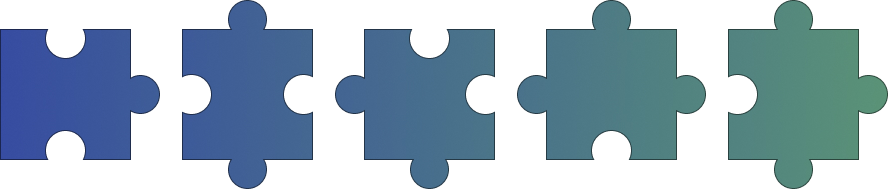
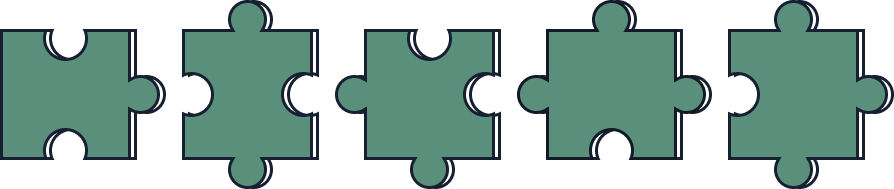
style(home page): added temporary assets from shutterstock

diff --git a/src/ui/product/Product.jsx b/src/ui/product/Product.jsx
@@ -1,8 +1,16 @@
 import { Link } from "react-router-dom";
 import conceptImg from "../../assets/concept.png";
-import designImplementation from "../../assets/design-and-implementation.png";
-import networkIncentives from "../../assets/network-incentives.png";
-import roadmap from "../../assets/roadmap.png";
+
+import { FontAwesomeIcon } from "@fortawesome/react-fontawesome";
+import {
+  faPuzzle,
+  faMap,
+  faCoins,
+  faHandshakeSimple,
+} from "@fortawesome/pro-solid-svg-icons";
+// import designImplementation from "../../assets/design-and-implementation.png";
+// import networkIncentives from "../../assets/network-incentives.png";
+// import roadmap from "../../assets/roadmap.png";
 
 export default function Example() {
   return (
@@ -47,15 +55,25 @@ export default function Example() {
           {/* Design & Implementation */}
           <div className="relative max-lg:row-start-1">
             <div className="absolute bg-white rounded-lg inset-1 max-lg:rounded-t-3xl dark:bg-stone-500/20"></div>
-            <div className="relative flex h-full flex-col overflow-hidden rounded-lg max-lg:rounded-t-[2rem] shadow ring-1 ring-black/5 dark:ring-stone-600">
-              <div className="px-8 pt-8 sm:px-10 sm:pt-10">
-                <p className="mt-2 text-lg font-medium tracking-tight text-gray-950 max-lg:text-center dark:text-stone-50">
-                  Design & Implementation
-                </p>
-                <p className="mt-2 mb-2 text-sm text-gray-600 max-lg:text-center dark:text-stone-50">
-                  Three key characters are integral to the network: the User,
-                  the Storer, and the PXL Server. Users are simply individuals
-                  who engage with the SNS mobile application...
+            <div className="relative flex h-full flex-col overflow-hidden rounded-lg max-lg:rounded-t-[2rem] shadow ring-1 ring-black/5 dark:ring-stone-600 ">
+              <div className="px-8 py-8 text-center lg:text-start sm:px-10 sm:pt-10">
+                <div className="flex flex-col items-center justify-center gap-4 lg:justify-start lg:flex-row">
+                  <FontAwesomeIcon
+                    icon={faPuzzle}
+                    className="p-2 rounded bg-primary/80 text-slate-100 size-5"
+                  />
+                  <p className="text-lg font-medium tracking-tight text-gray-950 max-lg:text-center dark:text-stone-50">
+                    Design & Implementation
+                  </p>
+                </div>
+                <p className="mt-5 mb-2 text-sm text-gray-600 max-lg:text-center dark:text-stone-50">
+                  The network is built around three primary components: the
+                  User, the Storer, and the PXL Server. The User is any
+                  individual who interacts with the SNS mobile application,
+                  engaging with content, sharing media, and participating in the
+                  platform’s social features. The Storer serves as a
+                  decentralized node tasked with securely storing encrypted
+                  data, such as user-generated content and metadata...
                 </p>
                 <div className="max-lg:text-center">
                   <Link
@@ -66,13 +84,13 @@ export default function Example() {
                   </Link>
                 </div>
               </div>
-              <div className="flex items-center justify-center flex-1 px-8 max-lg:pb-12 max-lg:pt-10 sm:px-10 lg:pb-2">
+              {/* <div className="flex items-center justify-center flex-1 px-8 max-lg:pb-12 max-lg:pt-10 sm:px-10 lg:pb-2">
                 <img
                   className="w-full max-lg:max-w-xs"
                   src={designImplementation}
                   alt="Design and Implementation Image"
                 />
-              </div>
+              </div> */}
             </div>
           </div>
 
@@ -80,14 +98,23 @@ export default function Example() {
           <div className="relative max-lg:row-start-3 lg:col-start-2 lg:row-start-2">
             <div className="absolute bg-white rounded-lg inset-1 dark:bg-stone-500/20"></div>
             <div className="relative flex flex-col h-full overflow-hidden rounded-lg shadow ring-1 ring-black/5 dark:ring-stone-600">
-              <div className="px-8 pt-8 sm:px-10 sm:pt-10">
-                <p className="mt-2 text-lg font-medium tracking-tight text-gray-950 max-lg:text-center dark:text-stone-50">
-                  Network Incentives
-                </p>
-                <p className="mt-2 mb-2 text-sm text-gray-600 max-lg:text-center dark:text-stone-50">
-                  What distinguishes Pixelmine from other decentralized systems
-                  is our unique approach to incentivizing the network by
-                  awarding points to both users and storers...
+              <div className="px-8 py-8 text-center sm:px-10 sm:pt-10 lg:text-start">
+                <div className="flex flex-col items-center justify-center gap-4 lg:justify-start lg:flex-row">
+                  <FontAwesomeIcon
+                    icon={faCoins}
+                    className="p-2 rounded bg-primary/80 text-slate-100 size-5"
+                  />
+                  <p className="text-lg font-medium tracking-tight text-gray-950 max-lg:text-center dark:text-stone-50">
+                    Network Incentives
+                  </p>
+                </div>
+                <p className="mt-5 mb-2 text-sm text-gray-600 max-lg:text-center dark:text-stone-50">
+                  Activity Points represent the overall activity of a user,
+                  which includes actions such as posting content, commenting on
+                  posts, messaging, and reacting to content. PXL Points, on the
+                  other hand, reflect the quality of a user’s activity. While
+                  Activity Points increase with every interaction within the
+                  app, PXL Points assess the quality of those interactions.
                 </p>
                 <div className="max-lg:text-center">
                   <Link
@@ -98,13 +125,13 @@ export default function Example() {
                   </Link>
                 </div>
               </div>
-              <div className="flex items-center justify-center flex-1 max-lg:py-6 lg:pb-2 ">
+              {/* <div className="flex items-center justify-center flex-1 max-lg:py-6 lg:pb-2 ">
                 <img
                   className="object-cover w-full "
                   src={networkIncentives}
                   alt="Network Incentives"
                 />
-              </div>
+              </div> */}
             </div>
           </div>
 
@@ -112,16 +139,24 @@ export default function Example() {
           <div className="relative max-lg:row-start-4 lg:col-start-3 lg:row-start-2">
             <div className="absolute bg-white rounded-lg inset-1 dark:bg-stone-500/20 dark:text-stone-50"></div>
             <div className="relative flex flex-col h-full overflow-hidden rounded-lg shadow ring-1 ring-black/5 dark:ring-stone-600">
-              <div className="px-8 py-8 sm:px-10 sm:pt-10">
-                <p className="mt-2 text-lg font-medium tracking-tight text-gray-950 max-lg:text-center dark:text-stone-50">
-                  Democratic System
-                </p>
-                <p className="mt-2 mb-2 text-sm text-gray-600 max-lg:text-center dark:text-stone-50">
-                  Pixelmines's decentralization plays a crucial role in
-                  strengthening democracy by reducing the concentration of power
-                  over information. In traditional centralized systems, a few
-                  entities control vast amounts of data, leading to risks of
-                  manipulation, surveillance, and censorship...
+              <div className="px-8 py-8 text-center sm:px-10 sm:pt-10 lg:text-start">
+                <div className="flex flex-col items-center justify-center gap-4 lg:justify-start lg:flex-row">
+                  <FontAwesomeIcon
+                    icon={faHandshakeSimple}
+                    className="p-2 rounded bg-primary/80 text-slate-100 size-5"
+                  />
+                  <p className="text-lg font-medium tracking-tight text-gray-950 max-lg:text-center dark:text-stone-50">
+                    Democratic System
+                  </p>
+                </div>
+                <p className="mt-5 mb-2 text-sm text-gray-600 max-lg:text-center dark:text-stone-50">
+                  Pixelmine focuses on user participation, transparency, and the
+                  fair distribution of information. By empowering users to
+                  express their opinions, Pixelmine facilitates meaningful
+                  discussions around social, political, and cultural issues. A
+                  key feature of Pixelmine is its commitment to inclusivity. The
+                  platform employs algorithms that promote diverse viewpoints
+                  instead of just trending content...
                 </p>
                 <div className="max-lg:text-center">
                   <Link
@@ -146,14 +181,24 @@ export default function Example() {
           <div className="relative max-lg:row-start-2 lg:col-start-3 lg:row-start-1">
             <div className="absolute bg-white rounded-lg inset-1 dark:bg-stone-500/20"></div>
             <div className="relative flex flex-col h-full overflow-hidden rounded-lg shadow ring-1 ring-black/5 dark:ring-stone-600">
-              <div className="px-8 pt-8 sm:px-10 sm:pt-10">
-                <p className="mt-2 text-lg font-medium tracking-tight text-gray-950 max-lg:text-center dark:text-stone-50">
-                  Roadmap
-                </p>
-                <p className="mt-2 mb-2 text-sm text-gray-600 max-lg:text-center dark:text-stone-50">
-                  Our strategic roadmap outlines the evolution of Pixelmine OPC
-                  Japan, focusing on innovative technology, creator empowerment,
-                  and global expansion.
+              <div className="px-8 py-8 text-center sm:px-10 sm:pt-10 lg:text-start">
+                <div className="flex flex-col items-center justify-center gap-4 lg:justify-start lg:flex-row">
+                  <FontAwesomeIcon
+                    icon={faMap}
+                    className="p-2 rounded bg-primary/80 text-slate-100 size-5"
+                  />
+                  <p className="text-lg font-medium tracking-tight text-gray-950 max-lg:text-center dark:text-stone-50">
+                    Roadmap
+                  </p>
+                </div>
+                <p className="mt-5 mb-2 text-sm text-gray-600 max-lg:text-center dark:text-stone-50">
+                  Our strategic roadmap charts the future development of
+                  Pixelmine OPC Japan, emphasizing a commitment to cutting-edge
+                  technology, meaningful creator empowerment, and a vision for
+                  global expansion. This plan highlights our dedication to
+                  building advanced solutions that not only push the boundaries
+                  of innovation but also provide creators with the tools,
+                  support, and opportunities they need...
                 </p>
                 <div className="max-lg:text-center">
                   <Link
@@ -164,9 +209,9 @@ export default function Example() {
                   </Link>
                 </div>
               </div>
-              <div className="flex items-center justify-center flex-1 max-lg:py-6 lg:pb-2">
+              {/* <div className="flex items-center justify-center flex-1 max-lg:py-6 lg:pb-2">
                 <img className="w-full" src={roadmap} alt="Roadmap" />
-              </div>
+              </div> */}
             </div>
           </div>
         </div>

diff --git a/src/data/news/newsData.jsx b/src/data/news/newsData.jsx
@@ -1,4 +1,6 @@
-import placeholder from "../../assets/placeholder.png";
+import placeholder from "../../assets/news-placeholder-1.jpg";
+import placeholder2 from "../../assets/news-placeholder-2.jpg";
+
 import featuredNews from "../../assets/featured-news.png";
 
 export const newsData = [
@@ -65,7 +67,7 @@ export const newsData = [
     ),
     preview:
       "Pixelmine 2.0 introduces a completely redesigned interface, new collaborative tools, and faster decentralized protocols, marking a major leap in our mission to build the next-generation social web.",
-    img: placeholder,
+    img: placeholder2,
     isFeatured: false,
     link: "",
     slug: "launch-of-pixelmine-2",

diff --git a/src/ui/news/NewsCard.jsx b/src/ui/news/NewsCard.jsx
@@ -29,7 +29,7 @@ function NewsCard({ news, idx }) {
           <img
             src={news.img}
             alt={`Preview image for ${news.title}`}
-            className="object-cover w-full h-48 transition-all duration-300 ease-in-out rounded md:h-auto group-hover:brightness-75"
+            className="object-cover w-full h-full transition-all duration-300 ease-in-out rounded group-hover:brightness-75"
           />
         </Wrapper>
 
